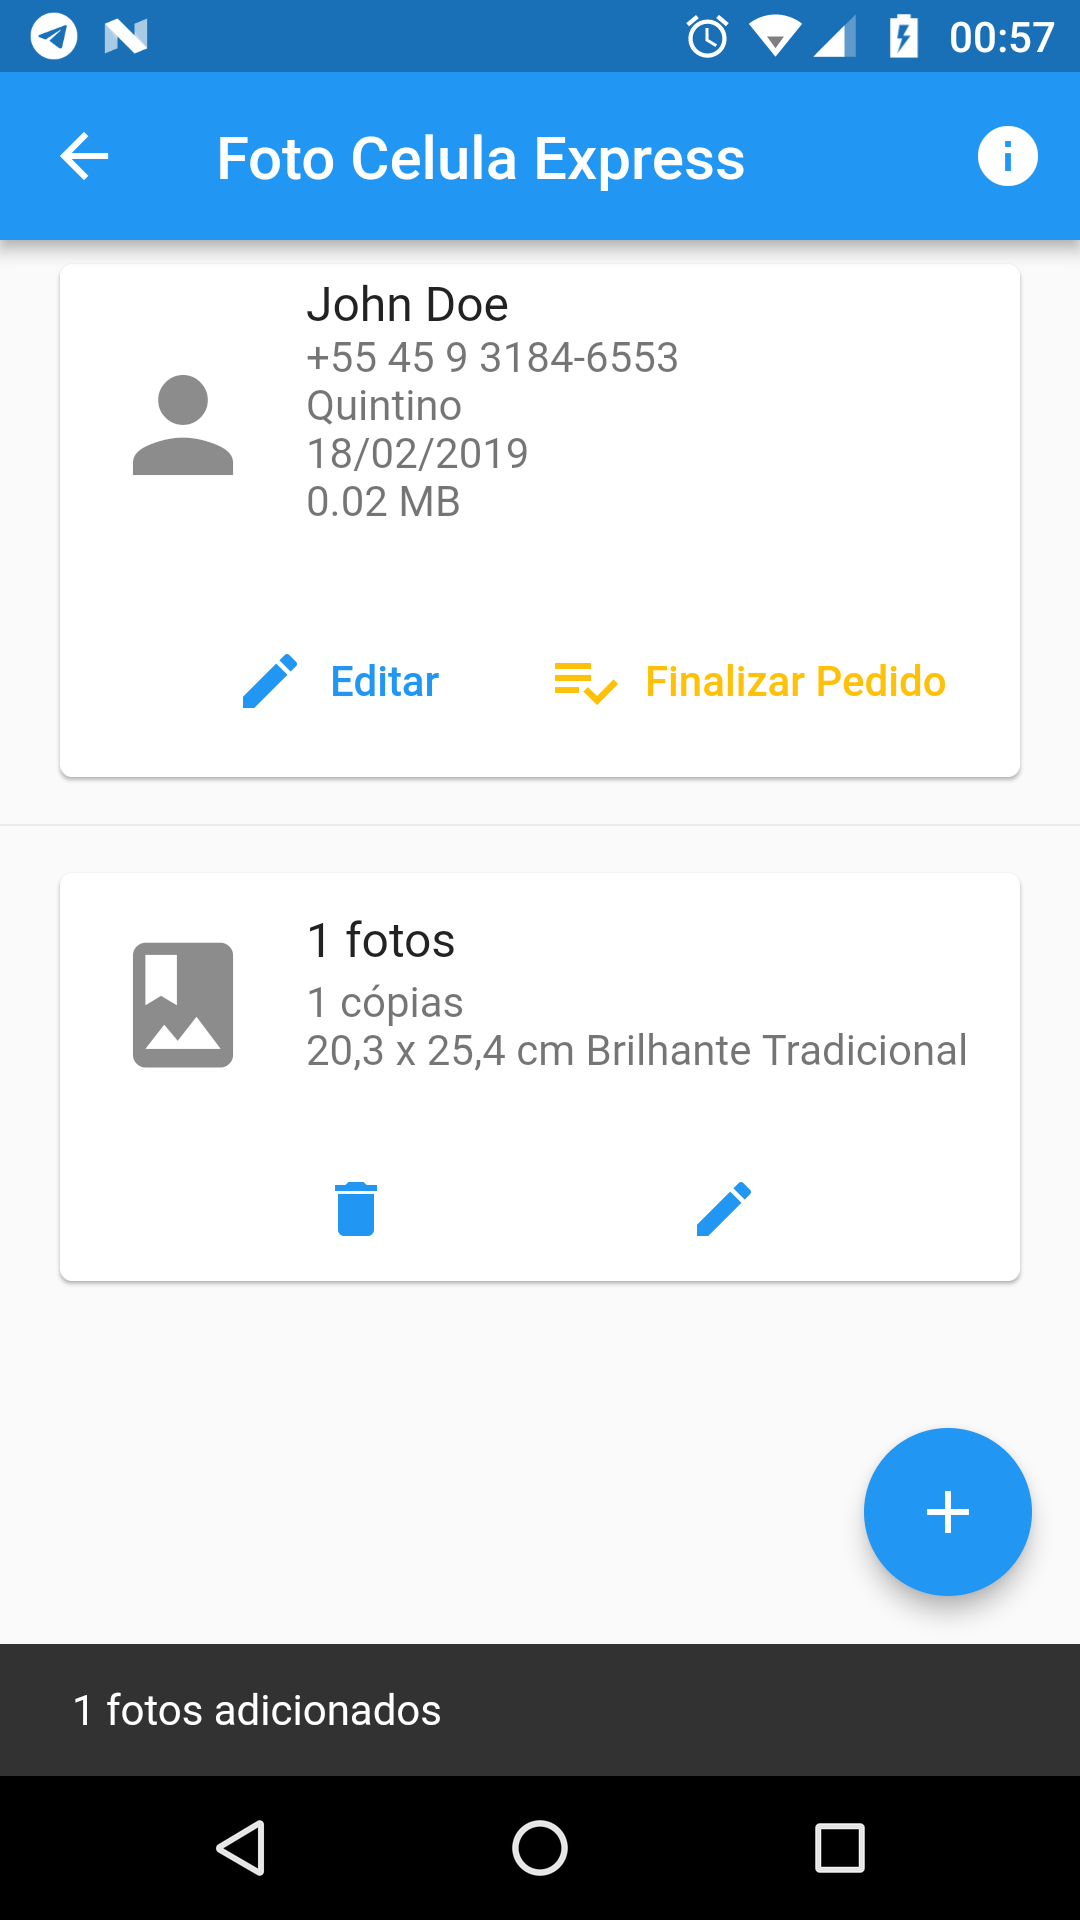
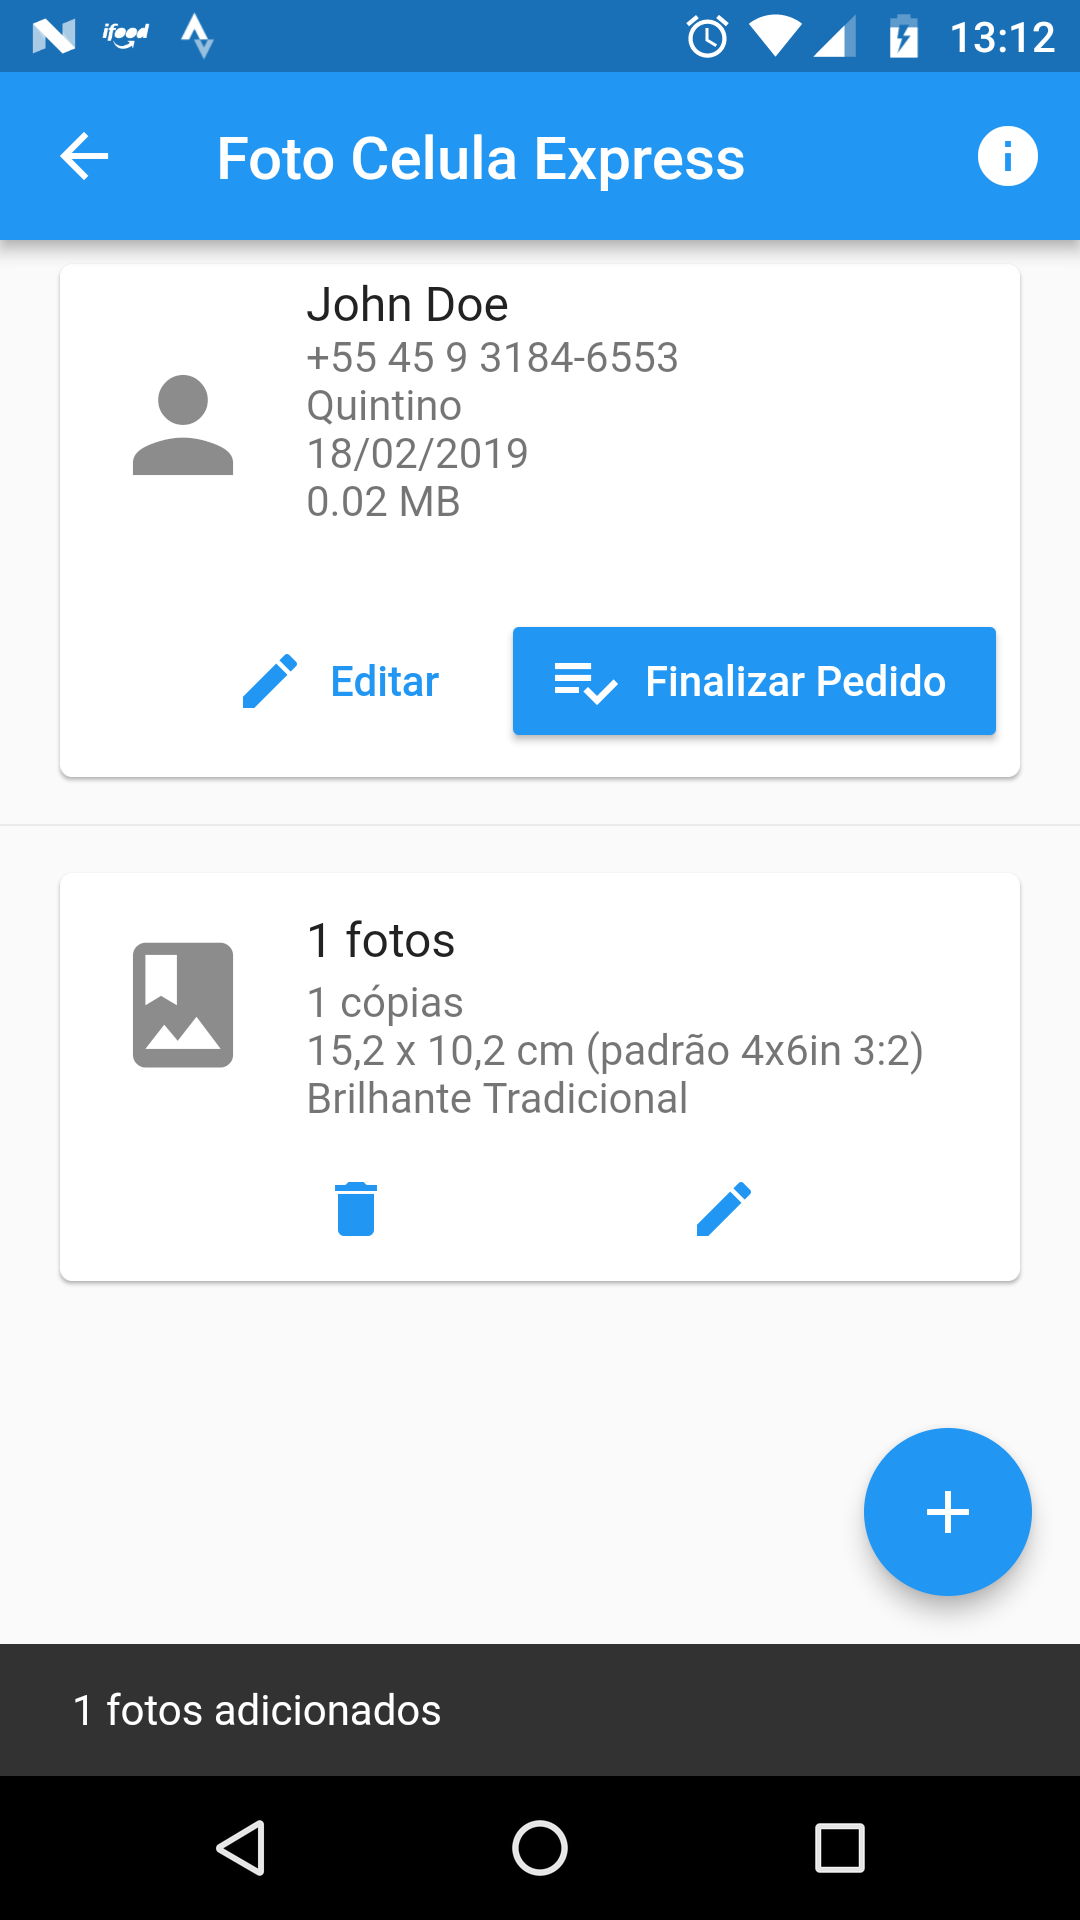
Changing default config to photo.

diff --git a/lib/models/impressao.dart b/lib/models/impressao.dart
@@ -8,10 +8,10 @@ int getId() {
 
 class GrupoImpressao extends Model {
   final int id = getId();
-  TipoGrupo _tipoGrupo = TipoGrupo.documento;
+  TipoGrupo _tipoGrupo = TipoGrupo.foto;
   int copias = 1;
-  ConfigDoc configDoc = ConfigDoc();
-  ConfigFoto configFoto;
+  ConfigDoc configDoc;
+  ConfigFoto configFoto = ConfigFoto();
 
   List<Arquivo> arquivos = [];
 
@@ -107,8 +107,8 @@ class Arquivo extends Model {
 
 enum TipoGrupo { documento, foto, }
 Map<TipoGrupo, String> tipoGrupoStr = {
-  TipoGrupo.documento: 'Documentos',
   TipoGrupo.foto: 'Fotos',
+  TipoGrupo.documento: 'Documentos',
 };
 enum TamanhoDoc { a3, a4, a5, a6, }
 Map<TamanhoDoc, String> tamanhoDocStr = {
@@ -135,7 +135,7 @@ enum TamanhoFoto {
   mm600x900,
 }
 Map<TamanhoFoto, String> tamanhoFotoStr = {
-  TamanhoFoto.mm152x102: '15,2 x 10,2 cm',
+  TamanhoFoto.mm152x102: '15,2 x 10,2 cm (padrão 4x6in 3:2)',
   TamanhoFoto.mm152x210: '15,2 x 21,0 cm',
   TamanhoFoto.mm129x89: '12,9 x 8,9 cm',
   TamanhoFoto.mm129x180: '12,9 x 18,0 cm',
@@ -192,7 +192,7 @@ Map<TipoPapelFoto, String> tipoPapelFotoStr = {
 };
 
 class ConfigFoto extends BaseConfig{
-  TamanhoFoto tamanhoFoto = TamanhoFoto.mm203x305;
+  TamanhoFoto tamanhoFoto = TamanhoFoto.mm152x102;
   TipoPapelFoto tipoPapelFoto = TipoPapelFoto.brilho;
 
   @override

diff --git a/lib/add-group.dart b/lib/add-group.dart
@@ -157,7 +157,7 @@ class _PrintGroupFormState extends State<PrintGroupForm> {
     _tamanhoDoc = group.configDoc?.tamanhoDoc;
     _duplex = group.configDoc?.duplex;
     _colorido = group.configDoc?.colorido;
-    _tamanhoFoto = group.configFoto?.tamanhoFoto ?? TamanhoFoto.mm203x254;
+    _tamanhoFoto = group.configFoto?.tamanhoFoto ?? TamanhoFoto.mm152x102;
     _tipoPapelFoto = group.configFoto?.tipoPapelFoto ?? TipoPapelFoto.brilho;
     _tipoGrupo = group.tipoGrupo;
     _copias = group.copias;

diff --git a/README.md b/README.md
@@ -35,7 +35,5 @@ Thanks to [@romannurik](https://romannurik.github.io/AndroidAssetStudio/icons-la
 # To do
 - feedbacks mais diretos
 - fontes menores no titulo LOJAS (Sobre)
-- Fotos como padrão (primeiro)
-- Tamanho 15x10 padrão
 - Mecanismo para fazer outro pedido
 - Se der implementar multipla seleção
